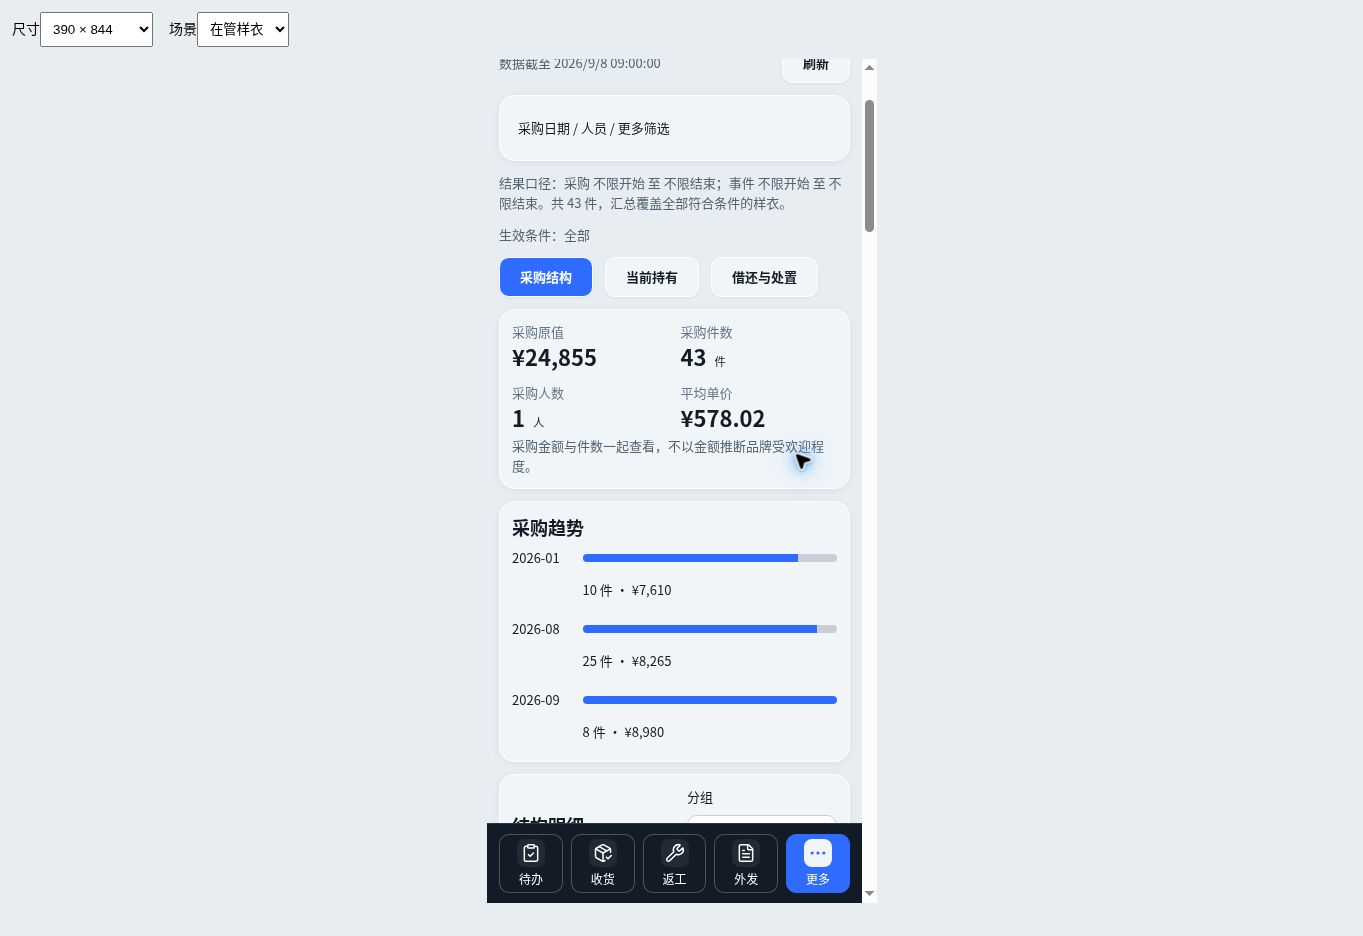
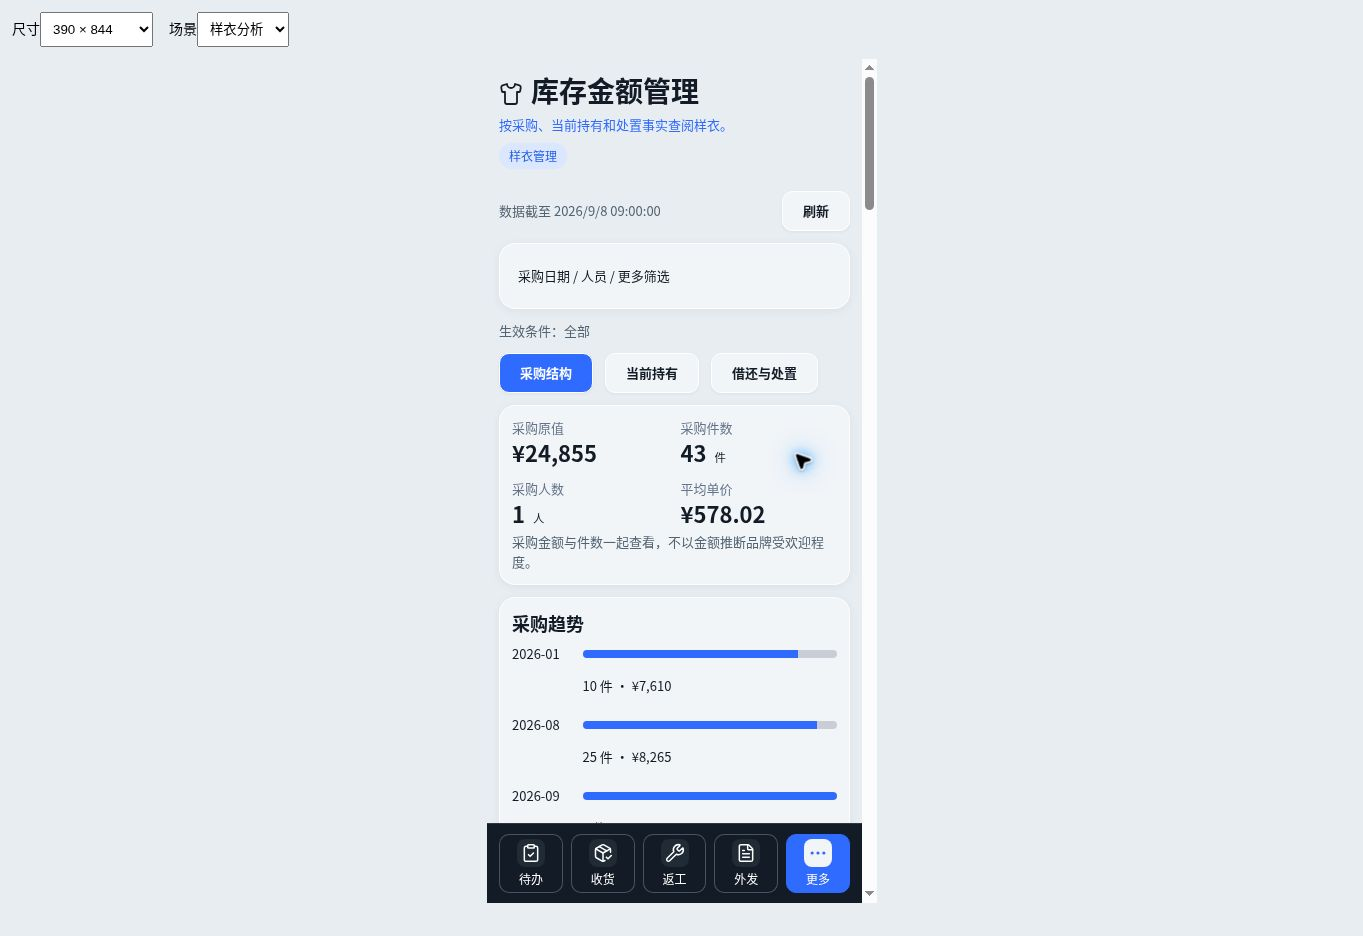
fix(samples): remove scope prose as requested

diff --git a/apps/web/src/sample-analysis-view.tsx b/apps/web/src/sample-analysis-view.tsx
@@ -27,7 +27,7 @@ export function SampleAnalysisView({data,legacy,busy,error,draft,onDraft,onApply
    {select('brandChoice','品牌',options?.brands??[])}{select('departmentChoice','部门',options?.departments??[])}{select('category','类别',(options?.categories??[]).map(value=>({id:value,name:value||'未记录类别'})))}
    {select('status','当前状态',Object.entries(analysisStatusLabels).map(([id,name])=>({id,name})))}{input('minPrice','最低采购单价')}{input('maxPrice','最高采购单价')}{input('eventFrom','借还 / 处置 / 回款开始','date')}{input('eventTo','借还 / 处置 / 回款结束','date')}
   </div></details><div className="analysis-form-actions"><Button type="submit" disabled={busy}>应用筛选</Button><Button variant="secondary" disabled={busy} onClick={onReset}>清除筛选</Button></div></form></Surface>
-  {data?<><p className="analysis-scope">结果口径：采购 {data.filters.purchaseFrom??'不限开始'} 至 {data.filters.purchaseTo??'不限结束'}；事件 {data.filters.eventFrom??'不限开始'} 至 {data.filters.eventTo??'不限结束'}。共 {n(data.totalCount)} 件，汇总覆盖全部符合条件的样衣。</p>
+  {data?<>
   <p className="analysis-scope">生效条件：{Object.entries(data.filters).filter(([key,value])=>!['page','groupPage','group','purchaseFrom','purchaseTo','eventFrom','eventTo'].includes(key)&&value!==undefined).map(([key,value])=>{
     const labels:Record<string,string>={purchaserUserId:'采购人',holderUserId:'持有人',brand:'品牌',brandId:'品牌',department:'部门',departmentId:'部门',category:'类别',status:'状态',minPrice:'最低单价',maxPrice:'最高单价',fact:'事实范围',disposalType:'处置类型'};
     const facts:Record<string,string>={held:'当前持有',held_90_days:'持有超过90天',initial_custody:'首次领用',borrow:'后续借出',return:'确认归还',disposal:'已批准处置',sale:'已批准出售',confirmed_loss:'已确认赔付'};

diff --git a/docs/roadmap/ui-polish-20260908-v1.0.md b/docs/roadmap/ui-polish-20260908-v1.0.md
@@ -63,3 +63,5 @@ PR02 #429 门禁全部通过后已合并。PR03 base main a50a1cf1c1f1c9b194e0d2
 月份、结构、指标钻取保存上下文；返回按钮位于左侧趋势标题行，逐级恢复筛选、草稿、分组与两个分页位置。普通翻页保留返回路径；显式重新筛选、清除或换主题清空旧路径。列表和折叠区紧凑，排名行不被旁边面板拉伸。
 
 定向13测试通过（含权限允许/拒绝和导航历史），ESLint及真实分析页/契约的59模块隔离构建通过。浏览器月份进入9月8件、返回恢复全年43件。五尺寸截图随PR；SQL集成回归由当前Head Full Gate执行，尚未部署生产验收。
+
+业务负责人追加：PR03删除“结果口径：……”整段页面文案，保留筛选控件、返回操作和原数据口径。
